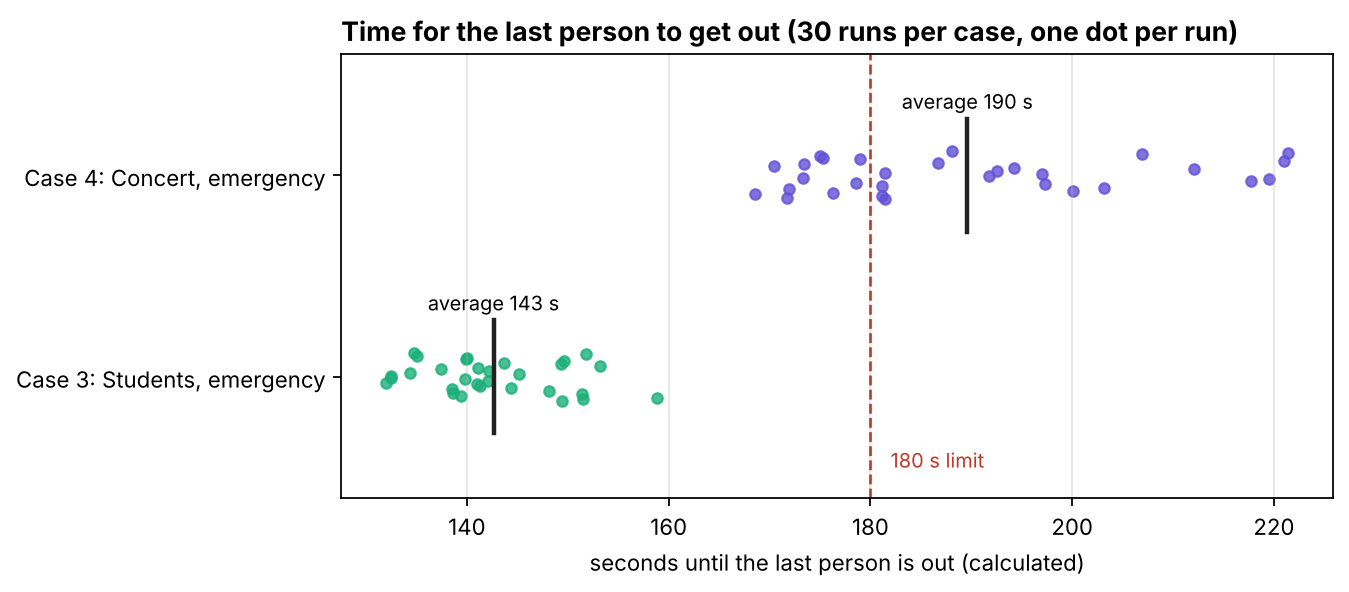
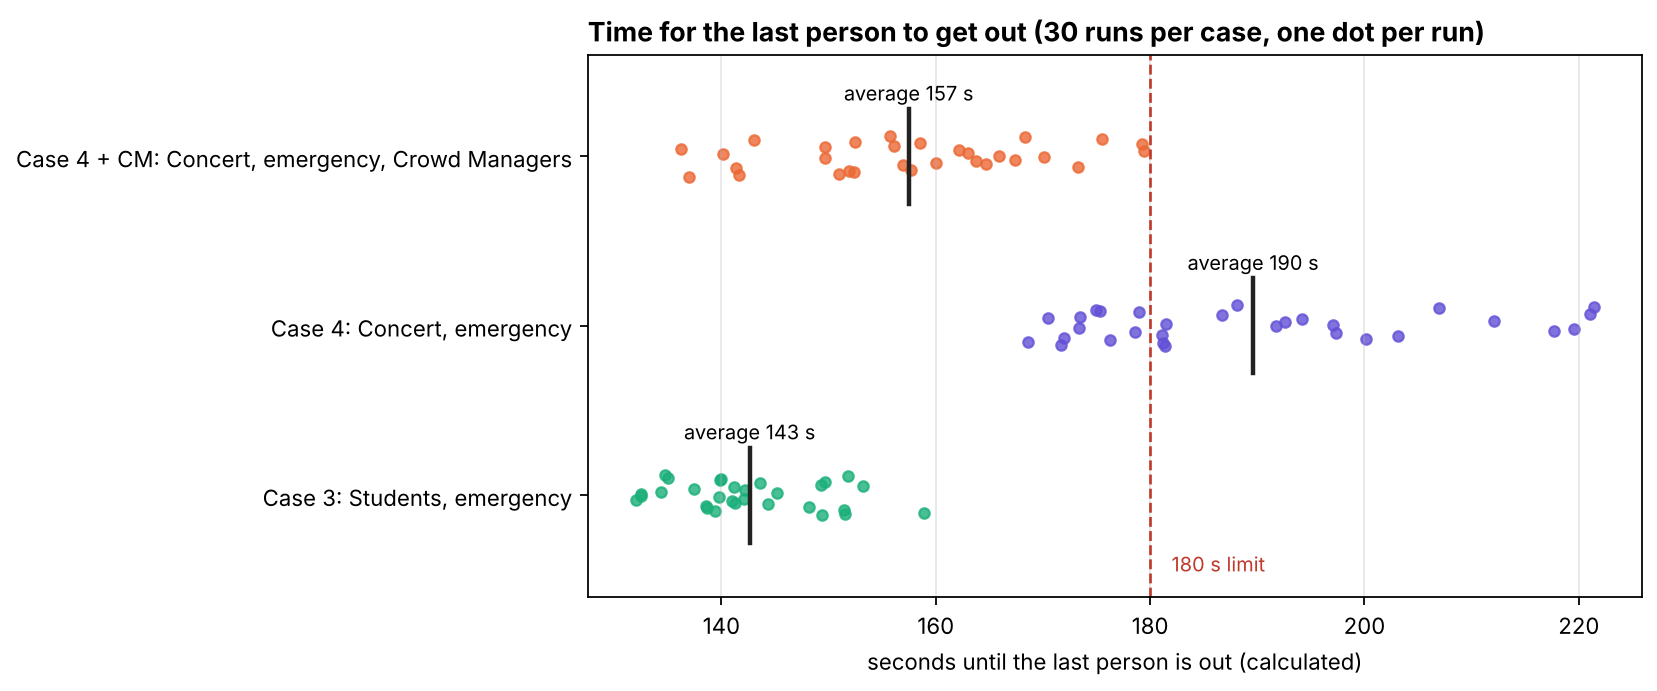
Add the concert with Crowd Managers scenario (100% guided)
- New scenario '4 + CM': concert emergency data (case 4), 10 s reaction,
  everyone follows the ushers' spread-out plan
- Cases now have a separate data_case, so two scenarios can share data
- Result: 157 s calculated (vs 190 s without), all 30 runs within 180 s
- Figures and README updated for the three scenarios

Claude-Session: https://claude.ai/code/session_01U71CpARVuiNg5Pzmof8GBr

diff --git a/main.py b/main.py
@@ -31,7 +31,7 @@ import simulation as sim
 NUMBER_OF_RUNS = 30        # how many times we repeat each case
 TIME_LIMIT = 180           # the fire code says everyone must be out within 180 s
 OUTPUT_FOLDER = "output"
-CASE_COLOURS = ["#1baf7a", "#6250d6"]   # case 3 (students), case 4 (concert)
+CASE_COLOURS = ["#1baf7a", "#6250d6", "#eb6834"]   # case 3 (students), case 4 (concert), concert + Crowd Managers
 PLACES = [("stair", "stairs", "Stairs (orchestra -> mezzanine)"),
           ("mezz door", "corridor", "Mezzanine doors (corridor)"),
           ("foyer door", "foyer", "Foyer doors (all 3)")]
@@ -106,7 +106,7 @@ def draw_map(hall):
 
 def draw_escape_times(results):
     """One dot per run: the calculated time for the last person to get out, per case."""
-    fig, ax = plt.subplots(figsize=(8, 3.6))
+    fig, ax = plt.subplots(figsize=(8.5, 4.4))
     for row, (case, colour) in enumerate(zip(sim.CASES, CASE_COLOURS)):
         times = results[case["case"]]["times"]
         wobble = np.linspace(-0.12, 0.12, len(times))         # spread the dots a little so they don't overlap
@@ -138,7 +138,7 @@ def draw_doorway_times(results):
                 return colour
         return "#2e9e5b"
 
-    fig, axes = plt.subplots(1, len(sim.CASES), figsize=(13, 7.5), sharex=True)
+    fig, axes = plt.subplots(1, len(sim.CASES), figsize=(19, 7.5), sharex=True)
     for ax, case in zip(axes, sim.CASES):
         finishes = results[case["case"]]["doorway_finish"]
         names = sorted(finishes, key=lambda d: (sim.doorway_level(d), d))
@@ -167,7 +167,7 @@ def draw_heatmaps(hall, results):
     grid = hall["grid"]
     extent = [sim.X_MIN, sim.X_MAX, sim.Y_MIN, sim.Y_MAX]
     top = max(float(results[c["case"]]["density"].max()) for c in sim.CASES)
-    fig, axes = plt.subplots(1, len(sim.CASES), figsize=(14, 4.6))
+    fig, axes = plt.subplots(1, len(sim.CASES), figsize=(20, 4.6))
     for ax, case in zip(axes.flat, sim.CASES):
         density = np.ma.masked_where(grid == sim.WALL, results[case["case"]]["density"])
         ax.imshow(grid == sim.WALL, cmap=ListedColormap(["white", "#3b3f45"]), extent=extent, interpolation="nearest")
@@ -189,7 +189,7 @@ def draw_flow_check(results, data):
     fig, axes = plt.subplots(1, 3, figsize=(13, 4))
     x = np.arange(len(sim.CASES))
     for ax, (gate_kind, data_place, title) in zip(axes, PLACES):
-        measured = [statistics.mean(float(row["Flow_people_per_s"]) for row in data[data_place][c["case"]])
+        measured = [statistics.mean(float(row["Flow_people_per_s"]) for row in data[data_place][c["data_case"]])
                     for c in sim.CASES]
         busiest = [statistics.mean(f["busiest"] for f in results[c["case"]]["flows"][gate_kind]) for c in sim.CASES]
         average = [statistics.mean(f["average"] for f in results[c["case"]]["flows"][gate_kind]) for c in sim.CASES]
@@ -224,7 +224,7 @@ def main():
                            "flows": {kind: [] for kind, _, _ in PLACES}}
         print(f"\nCase {number}: {case['name']}")
         for run in range(NUMBER_OF_RUNS):
-            rates = sim.rates_for_run(data, number, run)          # this run's measured flow rates
+            rates = sim.rates_for_run(data, case["data_case"], run)   # this run's measured flow rates
             people, times_occupied, steps, gate_times = sim.run_once(run, hall, case, rates)
             out_times = [p["out_time"] for p in people if p["out_time"] is not None]
             stuck = total_people - len(out_times)
@@ -270,7 +270,7 @@ def main():
         print(f"  within {TIME_LIMIT} s     : {under} of {NUMBER_OF_RUNS} runs")
         print("  people per exit : " + ", ".join(f"{n} {r['exits'][n] / NUMBER_OF_RUNS:.0f}" for n in sim.EXIT_NAMES))
         for kind, place, title in PLACES:
-            measured = statistics.mean(float(row["Flow_people_per_s"]) for row in data[place][case["case"]])
+            measured = statistics.mean(float(row["Flow_people_per_s"]) for row in data[place][case["data_case"]])
             busiest = statistics.mean(f["busiest"] for f in r["flows"][kind])
             average = statistics.mean(f["average"] for f in r["flows"][kind])
             print(f"  {title:34s}: data {measured:.2f} p/s | simulation busiest 20 s {busiest:.2f}, average {average:.2f} p/s")

diff --git a/simulation.py b/simulation.py
@@ -45,8 +45,15 @@ MAX_TIME = 600.0           # stop the simulation after this many seconds
 # "reaction" = seconds before people start to move.
 # guided = follow the ushers, habit = back to the front foyer, nearest = closest exit.
 CASES = [
-    {"case": 3, "name": "Students, emergency", "reaction": 5.0, "guided": 0.0, "habit": 0.40, "nearest": 0.60},
-    {"case": 4, "name": "Concert, emergency", "reaction": 10.0, "guided": 0.60, "habit": 0.25, "nearest": 0.15},
+    # "case" = the label we show, "data_case" = which case of our data files it uses
+    {"case": "3", "data_case": 3, "name": "Students, emergency",
+     "reaction": 5.0, "guided": 0.0, "habit": 0.40, "nearest": 0.60},
+    {"case": "4", "data_case": 4, "name": "Concert, emergency",
+     "reaction": 10.0, "guided": 0.60, "habit": 0.25, "nearest": 0.15},
+    # Crowd Managers: we assume they get everyone to follow the ushers' plan (100 % guided),
+    # which spreads people over all exits as efficiently as possible
+    {"case": "4 + CM", "data_case": 4, "name": "Concert, emergency, Crowd Managers",
+     "reaction": 10.0, "guided": 1.0, "habit": 0.0, "nearest": 0.0},
 ]
 
 # our measured bottleneck data (one file per place, 4 cases x 500 runs each)

diff --git a/README.md b/README.md
@@ -9,12 +9,16 @@ Each step is partly random, so we repeat every evacuation 30 times.
 The simulation tells us **how many people go through each doorway** (the same counts behind the heat map).
 From those counts and each doorway's flow rate we then **calculate when the last person gets out** (rule 10).
 
-We simulate the two **emergency** cases from our data:
+We simulate the two **emergency** cases from our data, plus the concert with Crowd Managers:
 
-| Case | Who | Reaction time | How people pick an exit |
-|---|---|---|---|
-| 3 | Students (lecture) | 5 s | 60% nearest exit, 40% habit (front foyer) |
-| 4 | Concert audience | 10 s | 60% follow the ushers, 25% habit, 15% nearest exit |
+| Case | Who | Data used | Reaction time | How people pick an exit |
+|---|---|---|---|---|
+| 3 | Students (lecture) | case 3 | 5 s | 60% nearest exit, 40% habit (front foyer) |
+| 4 | Concert audience | case 4 | 10 s | 60% follow the ushers, 25% habit, 15% nearest exit |
+| 4 + CM | Concert audience, with Crowd Managers | case 4 | 10 s | **100% follow the ushers** |
+
+For the Crowd Manager scenario we assume the Crowd Managers get everyone to follow the ushers' plan, which spreads people over all the exits as efficiently as possible (rule 4).
+Everything else is the same as case 4: the same measured doorway rates, and the same reaction time.
 
 ## How to run
 
@@ -187,14 +191,14 @@ The step-by-step simulation's own finishing time is still printed and saved, for
 
 ## Results (30 runs per case)
 
-| | Case 3: students, emergency | Case 4: concert, emergency |
-|---|---|---|
-| **Calculated time until the last person is out** | **143 s** | **190 s** |
-| Spread between runs (standard deviation) | 7 s | 17 s |
-| Fastest / slowest run | 132 s / 159 s | 169 s / 221 s |
-| Runs within the 180 s limit | **30 of 30** | **11 of 30** |
-| Doorways that finish last | P2 and P3 (138 s), FRONT (132 s) | FRONT (190 s), foyer doors 2 and 3 (182 s, 177 s) |
-| Step-by-step simulation's own time (for comparison) | 190 s | 245 s |
+| | Case 3: students | Case 4: concert | Case 4 + CM: concert with Crowd Managers |
+|---|---|---|---|
+| **Calculated time until the last person is out** | **143 s** | **190 s** | **157 s** |
+| Spread between runs (standard deviation) | 7 s | 17 s | 12 s |
+| Fastest / slowest run | 132 s / 159 s | 169 s / 221 s | 136 s / 179 s |
+| Runs within the 180 s limit | **30 of 30** | **11 of 30** | **30 of 30** |
+| Doorways that finish last | P2 and P3 (138 s), FRONT (132 s) | FRONT (190 s), foyer door 2 (182 s) | FRONT (157 s), foyer door 2 (149 s) |
+| Step-by-step simulation's own time (for comparison) | 190 s | 245 s | 209 s |
 
 Average number of people per exit:
 
@@ -202,13 +206,15 @@ Average number of people per exit:
 |---|---|---|---|---|---|---|---|
 | 3: students | 546 | 63 | 61 | 76 | 258 | 256 | 69 |
 | 4: concert | 639 | 106 | 107 | 112 | 128 | 128 | 110 |
+| 4 + CM: concert with Crowd Managers | 534 | 147 | 147 | 149 | 101 | 101 | 149 |
 
 ![escape time](output/escape_time.png)
 
 **Calculated time for the last person to get out.** One dot per run, with the average marked.
 
 - **Students:** always within 180 s. They react faster and 60% use the nearest exit, so the hall empties through all exits. The side doors P2 and P3 next to the foyer finish last; about 255 people each use them.
-- **Concert:** about a third of the runs make 180 s. The foyer route decides it: 639 people go out the front.
+- **Concert:** only about a third of the runs make 180 s. The foyer route decides it: 639 people go out the front.
+- **Concert with Crowd Managers:** **33 s faster on average (157 s vs 190 s), and every run makes 180 s.** The ushers send about 100 fewer people to the front, and more to the less-used exits (NW, NE, P1, P4: about 148 each instead of about 110). The slowest run (179 s) only just makes the limit, though.
 
 ![doorway times](output/doorway_times.png)
 
@@ -218,7 +224,9 @@ The longest bar decides the escape time.
 - **Concert:**
   - The 3 foyer doors and the FRONT exit finish last.
   - Before them, mezzanine doors 4 and 6, the ones next to the foyer, take about 140 people each and finish at about 170 s.
-  - The far mezzanine doors (1, 2, 8, 9) carry fewer than 45 people and are done by about 85 s.
+- **Concert with Crowd Managers:**
+  - Mezzanine doors 4 and 6 drop to about 110 people each, and the front exit to 534 people.
+  - The foyer route still finishes last, but about 30 s earlier.
 - **Students:** the load is spread more evenly, and the side doors P2 and P3 finish last.
 
 ![heat map](output/heatmap.png)
@@ -227,6 +235,7 @@ The longest bar decides the escape time.
 
 - The dark red queues sit **in front of the mezzanine doors next to the foyer**, and in the corridor in front of the 3 foyer doors.
 - **Concert:** 25% go back to the foyer by habit, and the ushers send many people there too. So the queues in front of the foyer-side mezzanine doors are the longest.
+- **Concert with Crowd Managers:** the queues at the foyer-side mezzanine doors are shorter. More people walk through the far mezzanine doors toward the side exits, which shows up as light orange near the stage ends.
 - **Students:** 60% head for the nearest exit, so there are also queues at the mezzanine doors near the P2 and P3 side exits.
 
 ![flow check](output/flow_check.png)
@@ -250,6 +259,7 @@ So the calculated time is what our measured rates allow, and the simulation's ow
 Our data says each mezzanine door and stair opening lets through only about 1 person per second.
 People don't spread evenly over the 9 mezzanine doors: the doors closest to the foyer get about 140 people each, while the far ones get fewer than 45.
 This points to where guidance (ushers or LED signs) could help most: spreading people over the mezzanine doors and away from the foyer.
+The Crowd Manager scenario confirms it: with everyone following the ushers' plan, the concert gets out about 33 s faster.
 
 ## Simplifications
 
@@ -260,6 +270,6 @@ This points to where guidance (ushers or LED signs) could help most: spreading p
 - **The calculation** assumes each doorway works at its full rate while people wait, and uses the shortest walk between doorways. It doesn't add the time a doorway sits idle because the doorway before it is slow, except through the "last person arrives" rule.
 - **Map:** one floor, simplified shapes, door widths estimated from the CMCM drawings. The balcony itself isn't drawn.
 - **Speed and reaction:** everyone walks at the same speed, and reaction time is fixed and the same for everyone.
-- **Ushers:** modelled only by how they spread the guided 60%. They don't move.
+- **Ushers / Crowd Managers:** modelled only through the exit each guided person is given (the ushers' spread-out plan). They don't stand in the hall or talk to people on the way. In the Crowd Manager scenario we assume everyone follows them (100% guided), which is the best case.
 
 All the settings are named constants at the top of `simulation.py`.
